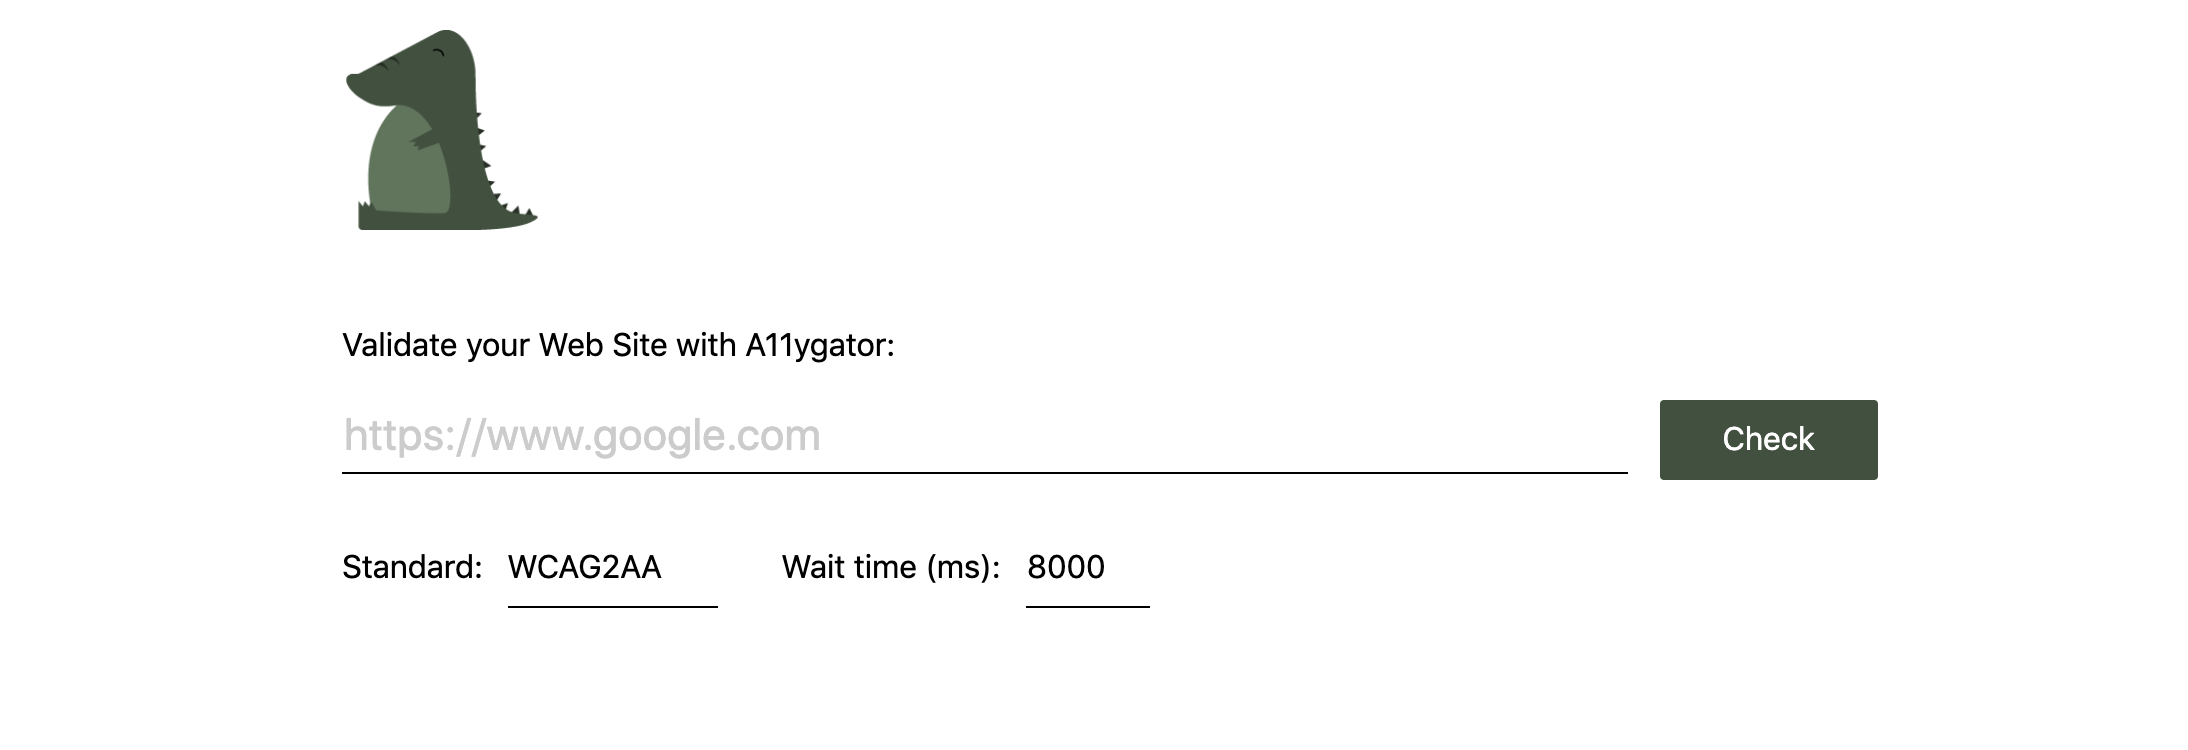
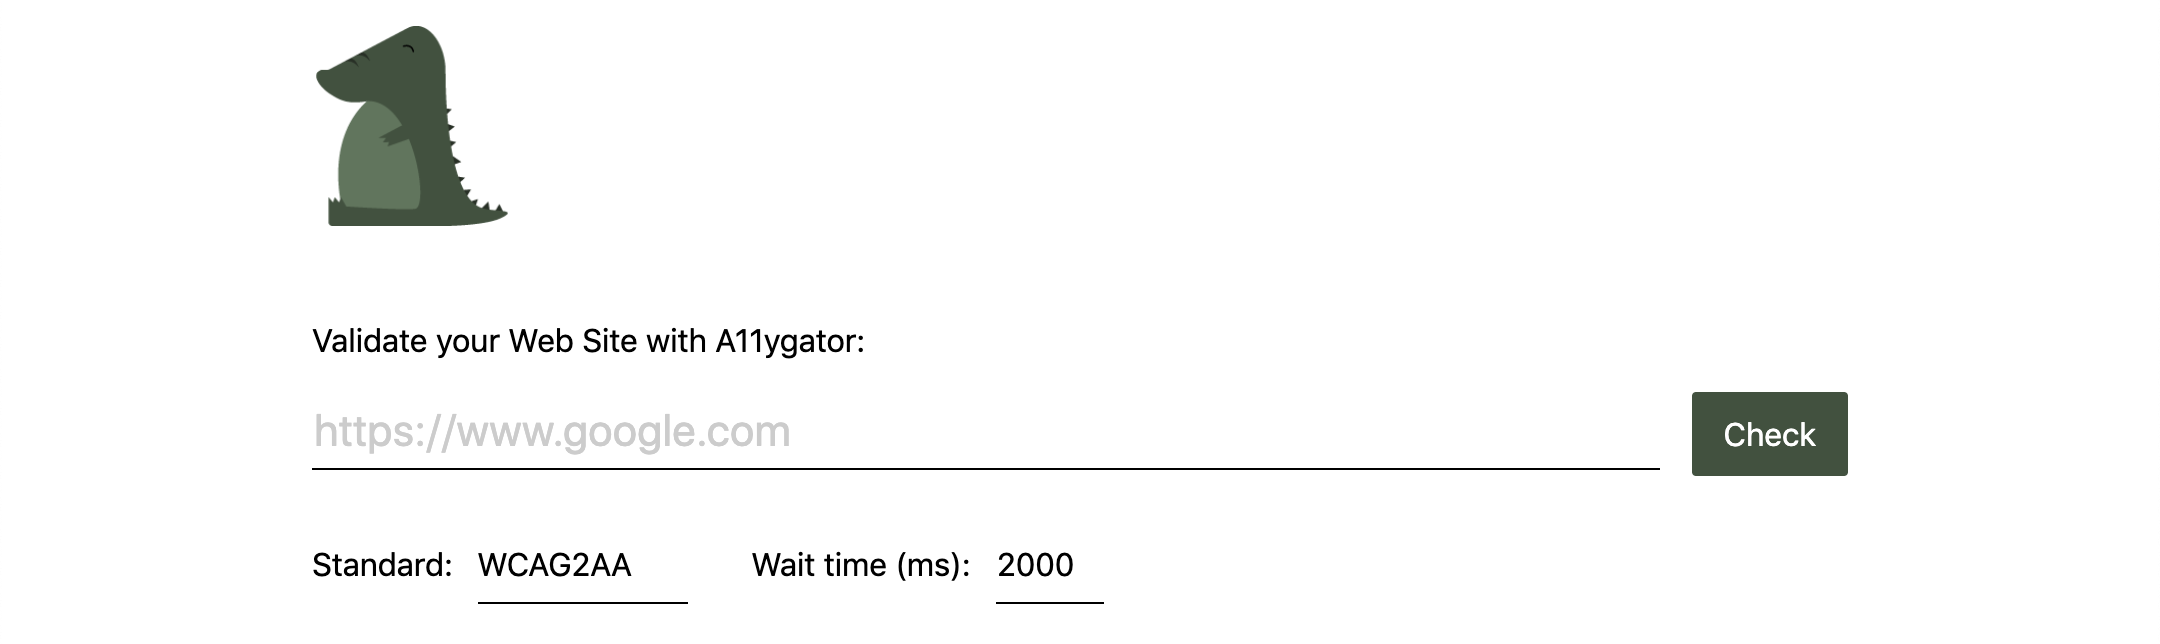
chore: update screenshot; update readme

diff --git a/README.md b/README.md
@@ -1,10 +1,26 @@
-# A11ygator
+<p align="center">
+    <img src="public/logo.png" width="100">
+</p>
+<h1 align="center">A11ygator</h1>
+<p align="center">
+    <a href="https://www.w3.org/WAI/standards-guidelines/wcag/">WCAG home</a> |
+    <a href="https://www.chialab.io">Authors</a>
+</p>
 
-A web dashboard for accessibility tests.
+Validate the accessibility of your website against W3C's Web Content Accessibility Guidelines.
 
-![homepage screenshot](a11ygator.png?raw=true "Title")
+A11ygator is a free tool for web developers to check compliance with the WCAG rules.
+
+Simply put an URL and choose the WCAG standard.
+
+![homepage screenshot](a11ygator.png?raw=true "homepage screenshot")
 
 ## Awake the A11ygator
+
+Requirements
+
+* [Node JS](https://nodejs.org/) (>= 11.11.0)
+* [Yarn](https://yarnpkg.com/) (>= 1.15.0)
 
 Run the server
 
@@ -14,7 +30,7 @@ yarn build
 yarn start
 ```
 
-In local environment, navigate with the browser to **`https://localhost:3000/`** in order to visualize the app.
+In local environment, navigate with the browser to **`https://localhost:3000/`** to visualize the app.
 
 ## API Usage
 
@@ -33,13 +49,16 @@ Example:
 ```http
 POST /report?url=<site-to-test> HTTP/1.1
 Content-Type: application/json
-
 {
-    "includeNotices": false,
-    "includeWarnings": false,
-    "wait": 10000,
-    // ...
+    "wait": 5000,
+    "timeout": 8000
 }
 ```
 
-See https://github.com/pa11y/pa11y for more info.
+Also check out A11ygator extensions:
+* <a href="https://chrome.google.com/webstore/detail/a11ygator/imfmlpemomjmfncnmkjdeeinbkichaio">A11ygator for Chrome</a>
+* <a href="https://addons.mozilla.org/it/firefox/addon/a11ygator">A11ygator for Firefox</a>
+
+## Credits
+
+A11ygator uses [Pa11y](https://github.com/pa11y/pa11y) under the hood.
